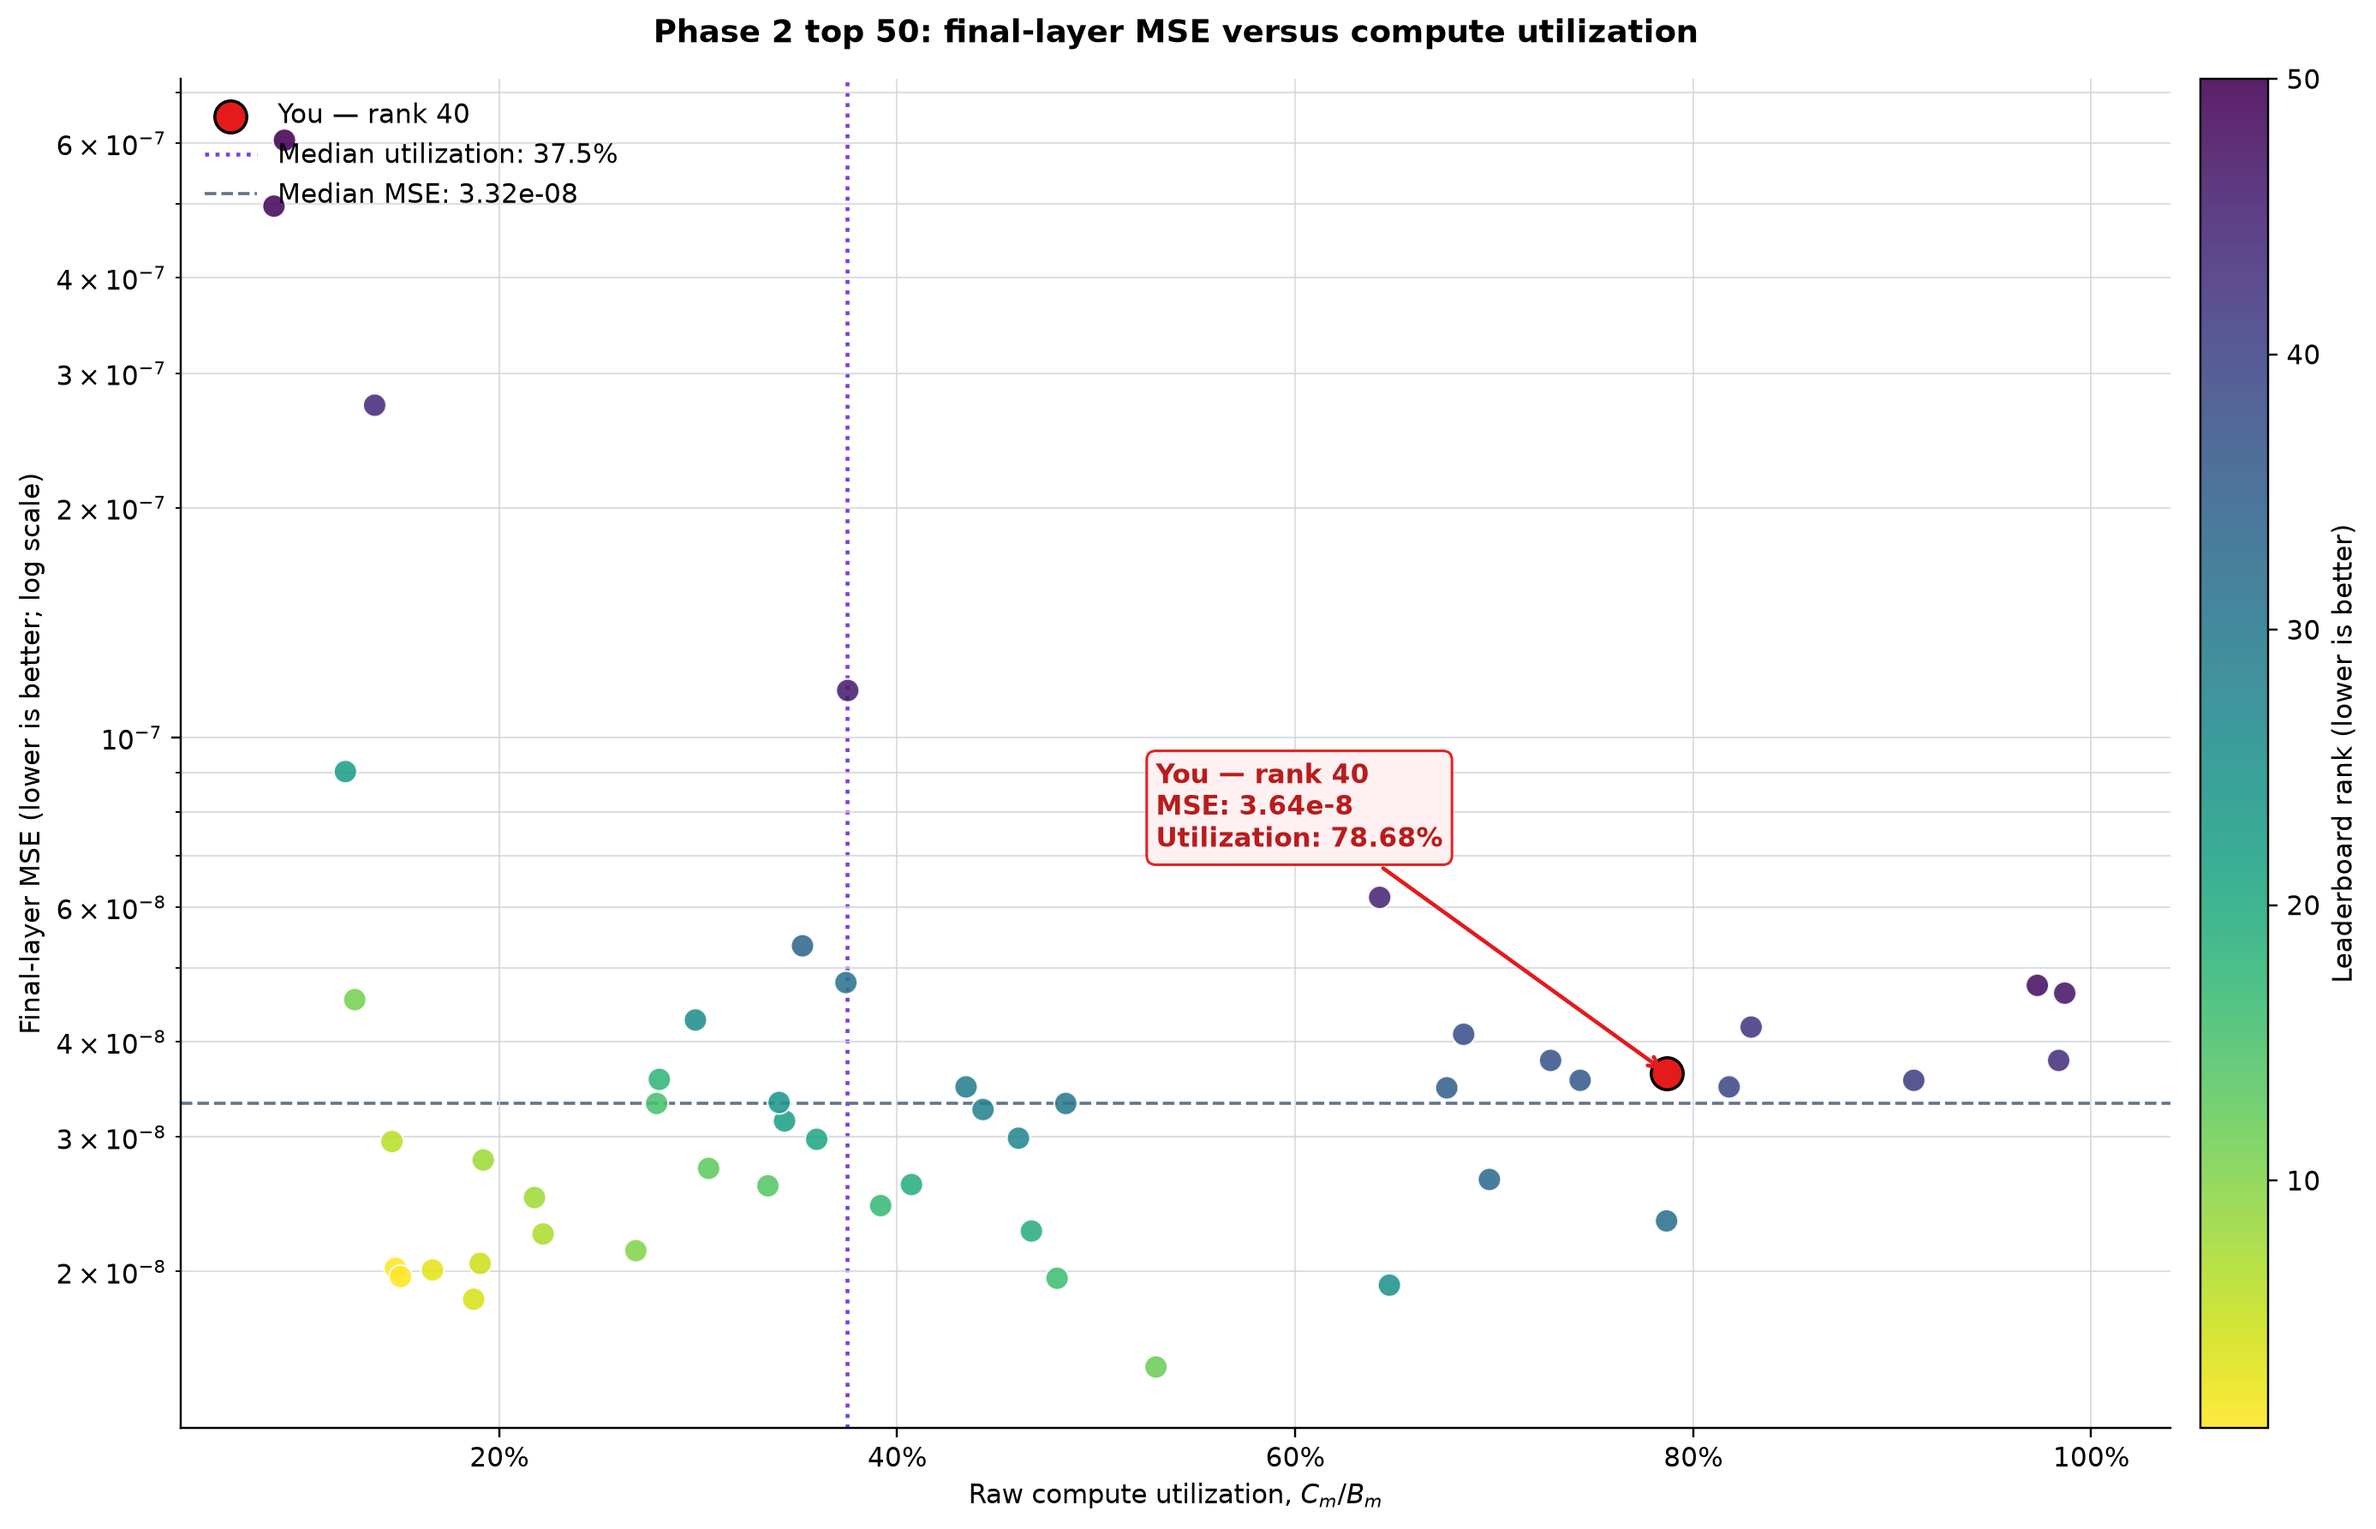
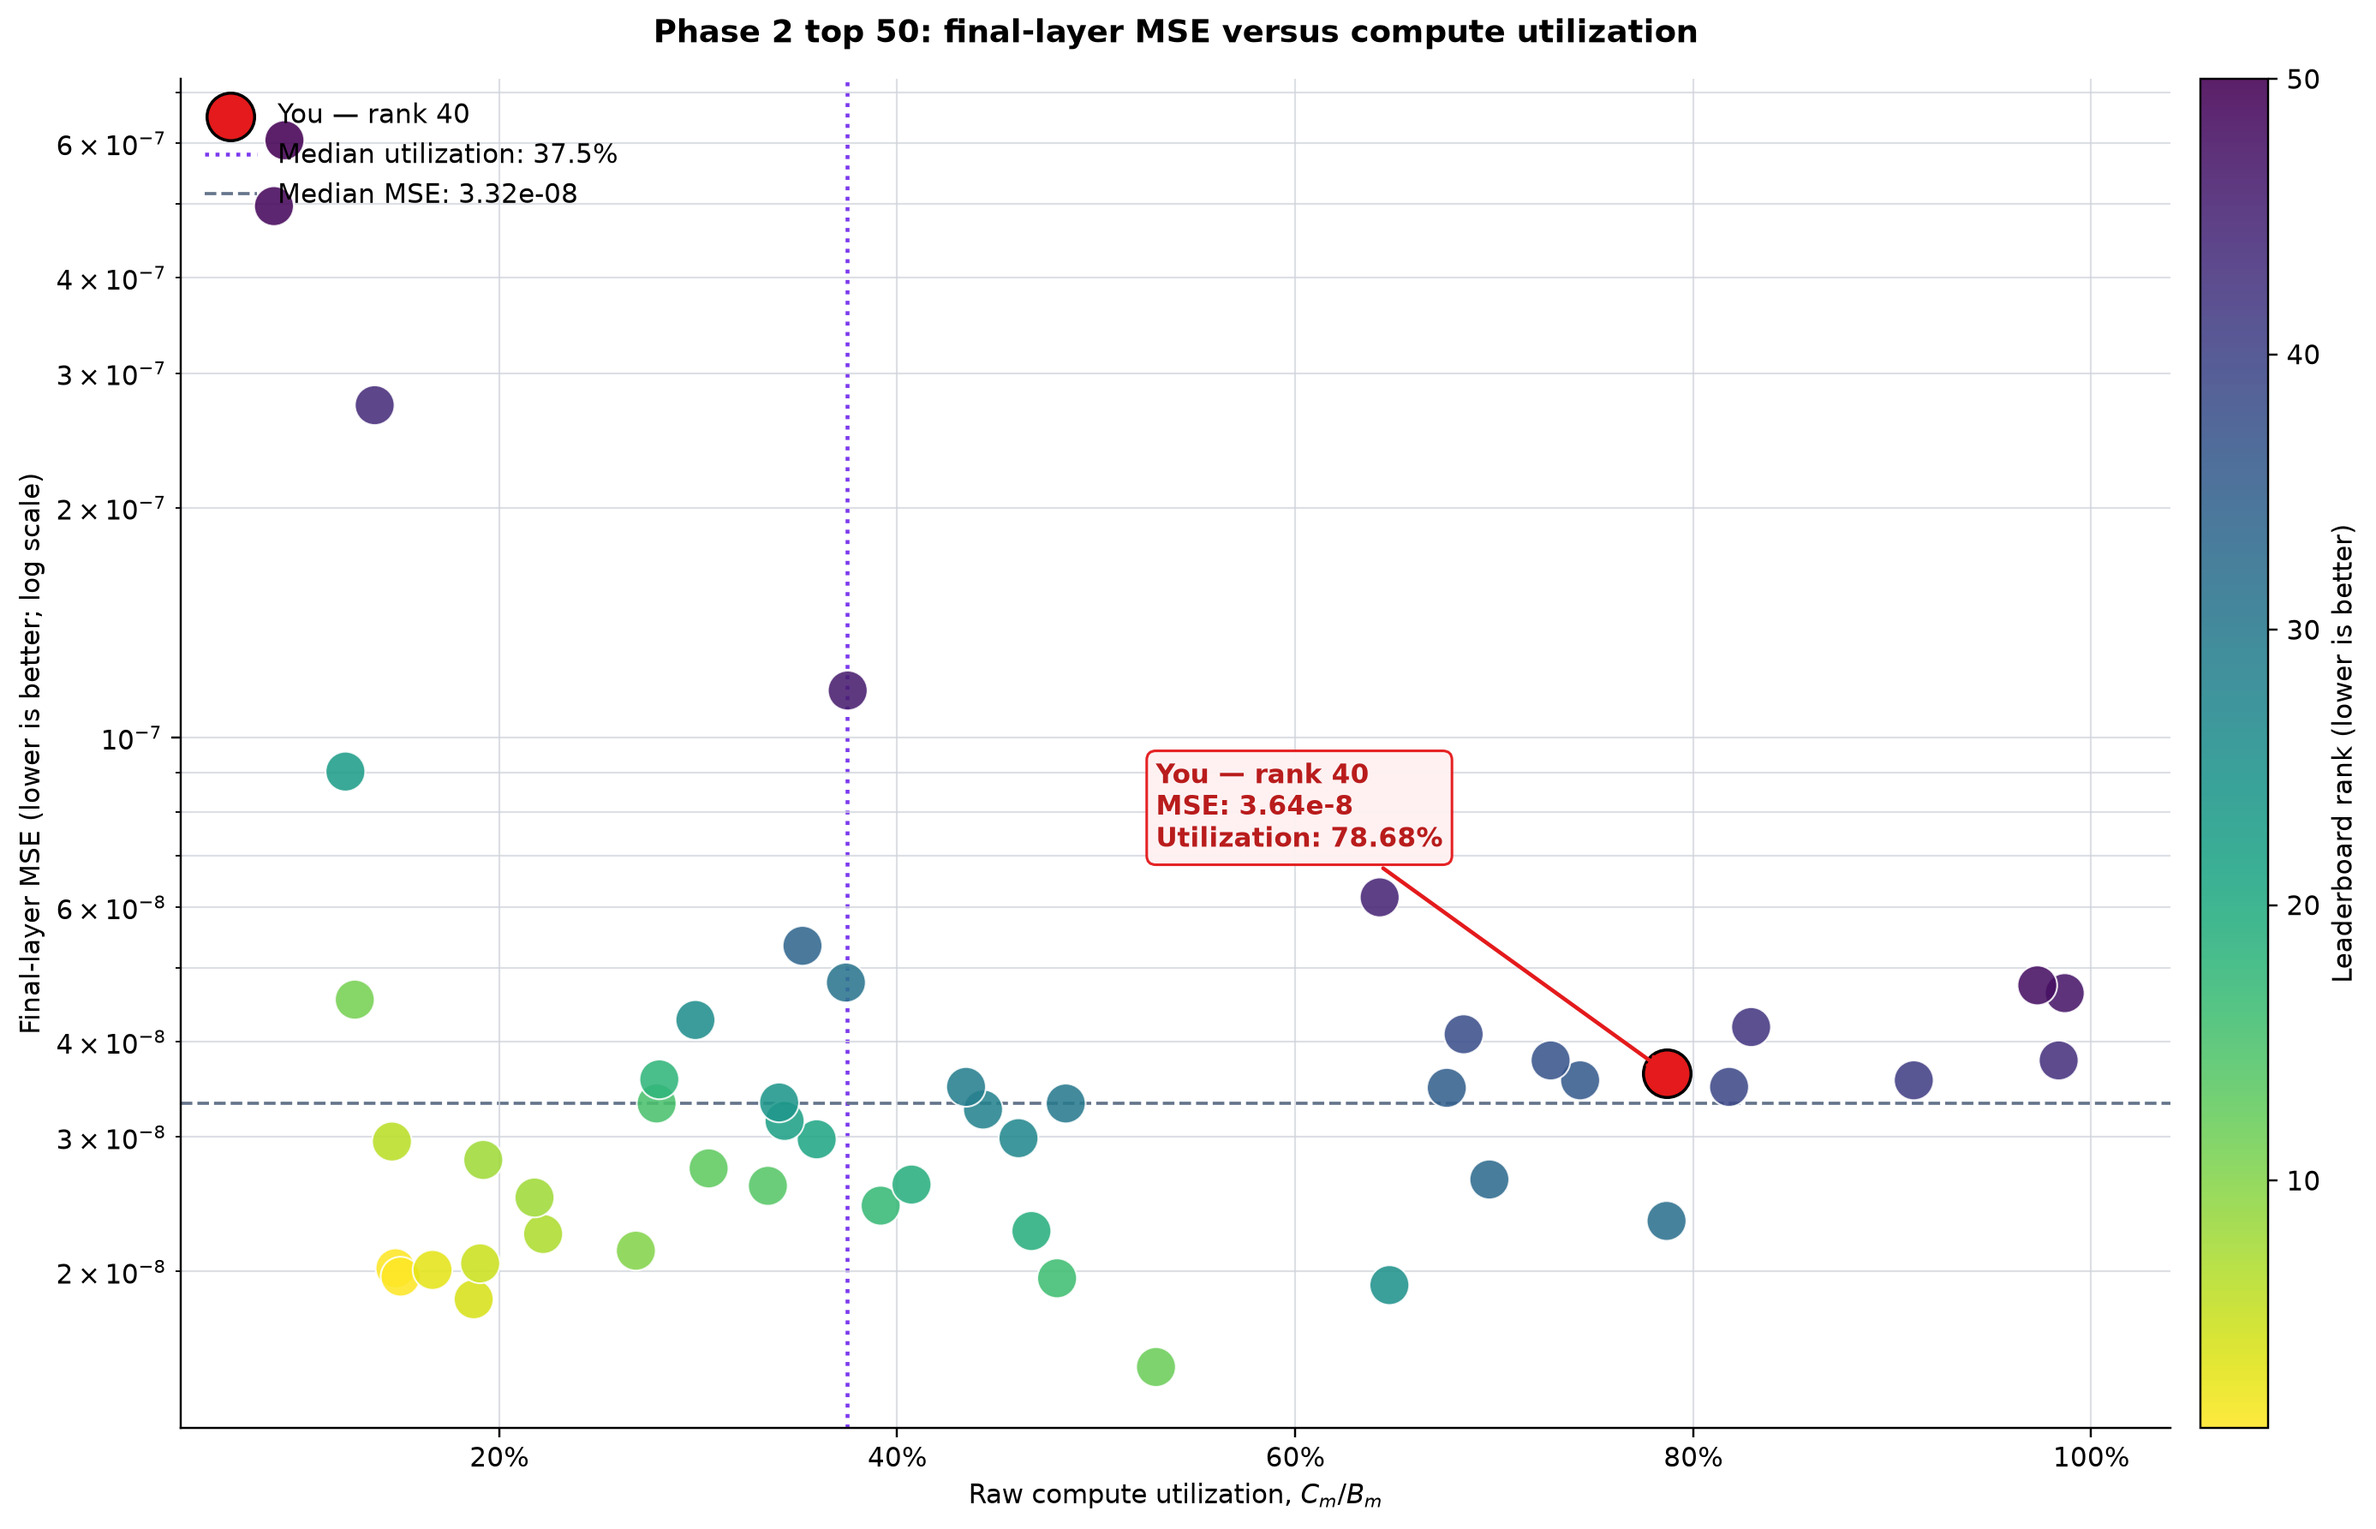
Label MSE utilization bubbles with rank

diff --git a/leaderboard_analysis/plot_compute_utilization.py b/leaderboard_analysis/plot_compute_utilization.py
@@ -11,6 +11,7 @@ import csv
 from pathlib import Path
 
 import matplotlib.pyplot as plt
+import matplotlib.patheffects as path_effects
 from matplotlib.ticker import PercentFormatter
 
 
@@ -154,7 +155,7 @@ def main() -> None:
         FINAL_LAYER_MSE,
         c=ranks,
         cmap="viridis_r",
-        s=78,
+        s=230,
         alpha=0.88,
         edgecolor="white",
         linewidth=0.7,
@@ -163,7 +164,7 @@ def main() -> None:
     ax.scatter(
         utilization[mine],
         FINAL_LAYER_MSE[mine],
-        s=150,
+        s=330,
         color="#e41a1c",
         edgecolor="black",
         linewidth=1.15,
@@ -195,6 +196,45 @@ def main() -> None:
     fig.colorbar(point_colors, ax=ax, pad=0.015, label="Leaderboard rank (lower is better)")
     ax.legend(loc="upper left", frameon=False)
     fig.savefig(OUTDIR / "phase2_mse_vs_compute_utilization_top50.png", dpi=220, bbox_inches="tight")
+
+    # A rank-labelled variant: the number inside each bubble is the displayed
+    # leaderboard rank.  Keeping the coordinates unchanged is more important
+    # than spreading close bubbles apart, so naturally similar entries may
+    # touch or partly overlap.
+    colormap = plt.colormaps["viridis_r"]
+    rank_min, rank_max = min(ranks), max(ranks)
+    for rank, name, fraction, mse in zip(ranks, names, utilization, FINAL_LAYER_MSE, strict=True):
+        if name == "subarno_sadat_barno":
+            continue
+        rgba = colormap((rank - rank_min) / (rank_max - rank_min))
+        luminance = 0.2126 * rgba[0] + 0.7152 * rgba[1] + 0.0722 * rgba[2]
+        text_color = "#111827" if luminance > 0.56 else "white"
+        ax.text(
+            fraction,
+            mse,
+            str(rank),
+            ha="center",
+            va="center",
+            fontsize=6.7,
+            fontweight="bold",
+            color=text_color,
+            zorder=6,
+            path_effects=[path_effects.withStroke(linewidth=1.0, foreground="white" if text_color == "#111827" else "#111827")],
+        )
+    ax.text(
+        utilization[mine],
+        FINAL_LAYER_MSE[mine],
+        "40",
+        ha="center",
+        va="center",
+        fontsize=7.3,
+        fontweight="bold",
+        color="white",
+        zorder=7,
+        path_effects=[path_effects.withStroke(linewidth=1.2, foreground="#111827")],
+    )
+    ax.set_title("Phase 2 top 50: final-layer MSE versus compute utilization\nBubble text = leaderboard rank", fontweight="bold", pad=14)
+    fig.savefig(OUTDIR / "phase2_mse_vs_compute_utilization_top50_rank_labeled.png", dpi=220, bbox_inches="tight")
 
 
 if __name__ == "__main__":
